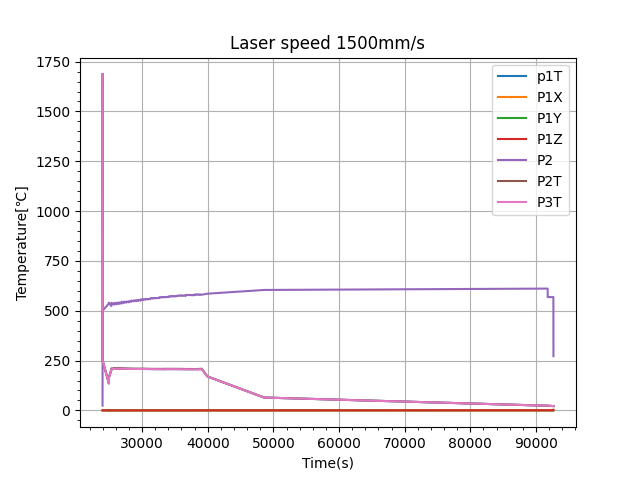
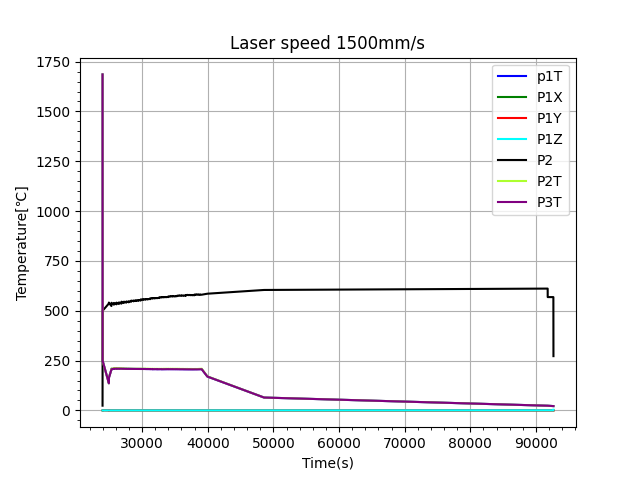
add line color setup

diff --git a/main.py b/main.py
@@ -42,6 +42,8 @@ def data_x_y(data_local):
     return(average_list_x,average_list_y)
 
 if __name__ == '__main__':
+    #顏色順序(需>=數據量)
+    color_and_type = ['blue','green','red','cyan','black','greenyellow','purple']
     legend_result = []
     legend_result_list = []
     #數據位置
@@ -49,12 +51,14 @@ if __name__ == '__main__':
     allFileList = os.listdir(data_path)
     fig,axes=plt.subplots(1,1)
     #讀取資料
+    j = 0
     for i in allFileList:
+        j += 1
         #機算點資料
         data_file = '.\\data\\'+i
         x, y = data_x_y(data_file)
         #圖形繪製
-        plt.plot(x, y)
+        plt.plot(x, y,color=color_and_type[j-1])
     #讀取檔案名稱
     for i in range(len(allFileList)):
         legend_result.append(re.findall(r"\w+[^.csv]", allFileList[i], re.I)[0])
